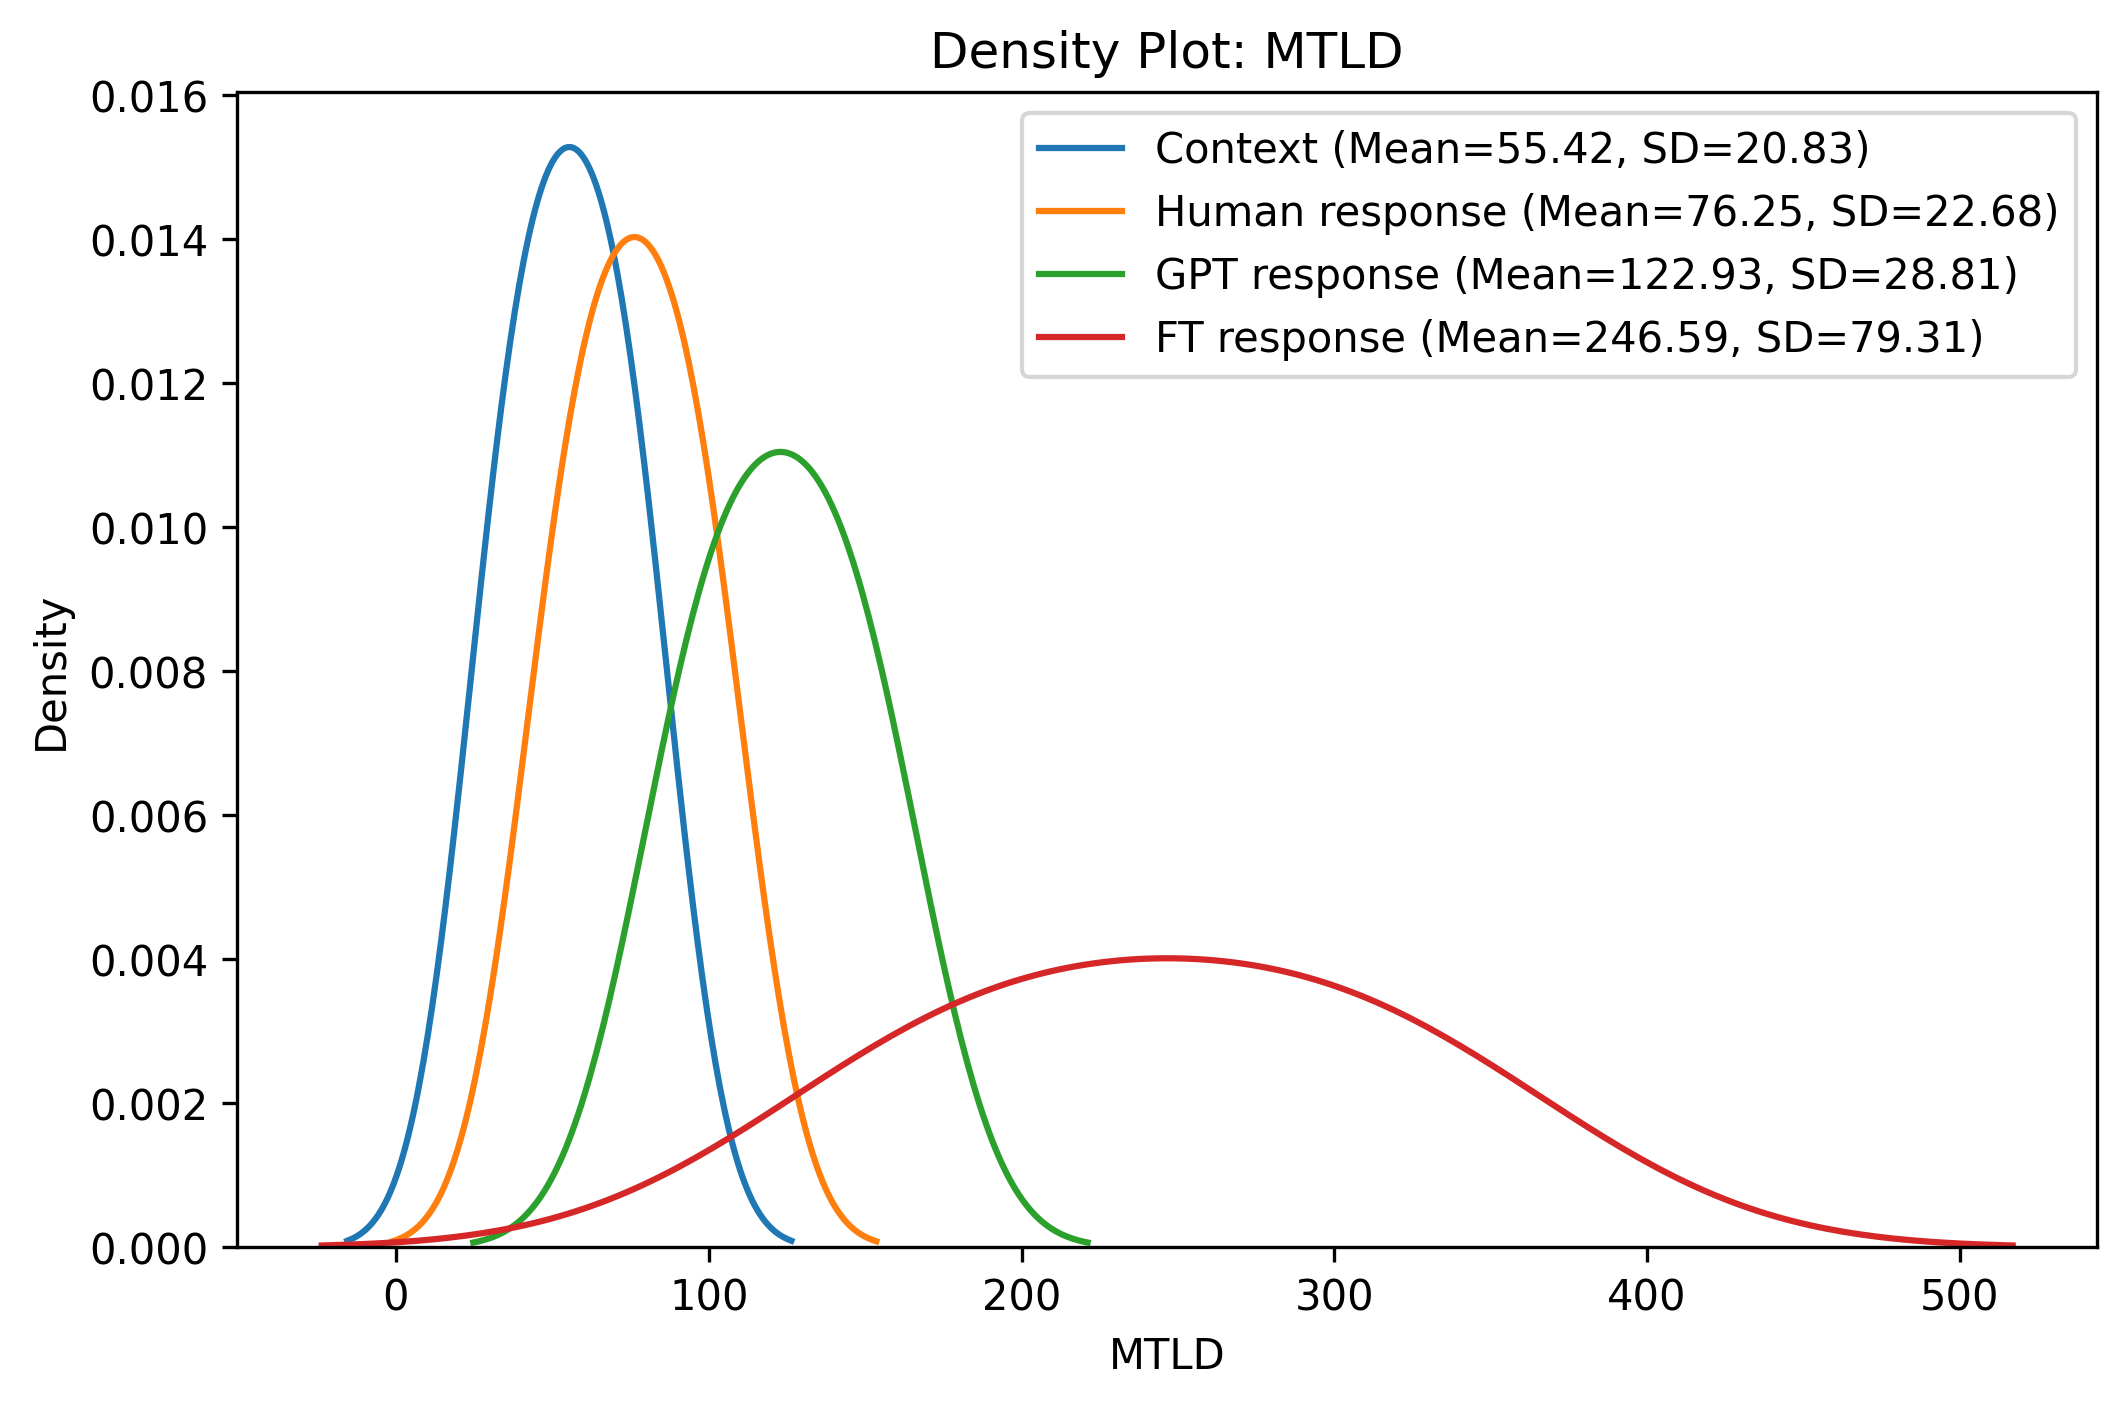
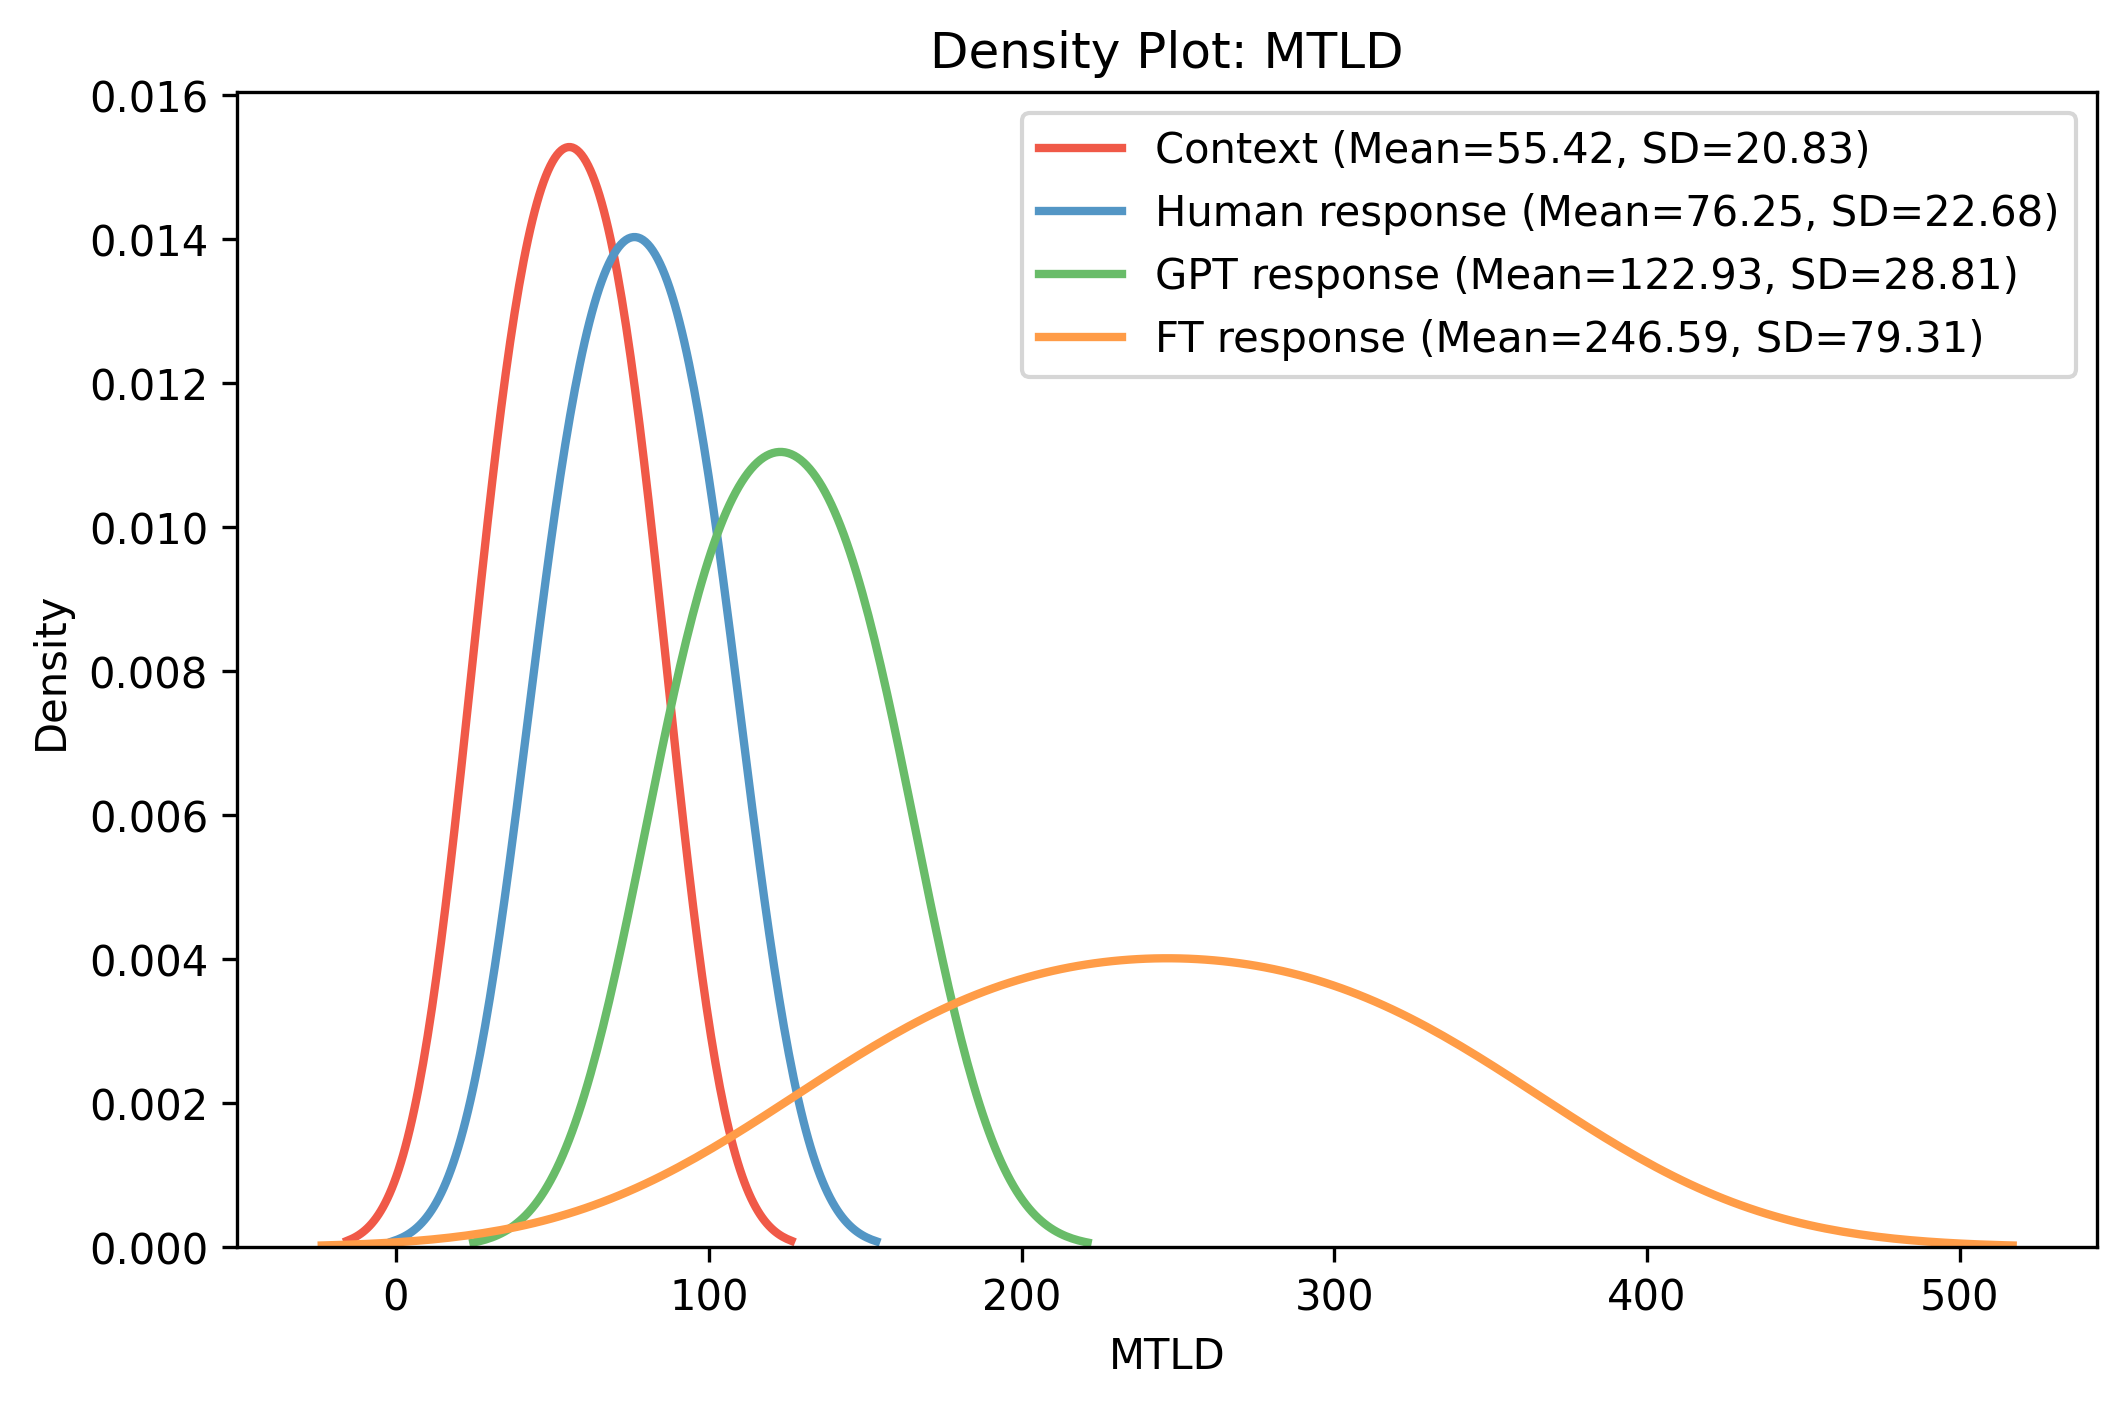
Changed color palette and changed smaller things.

diff --git a/src/EmotionStats.py b/src/EmotionStats.py
@@ -1,12 +1,26 @@
 ''' 
--------------------- Emotion Classification - Statistical Analysis -----------------------
-Okay, so for this script we will be doing some statistics on the emotional Classification investigation.
+-------------------- Emotional alignment - Statistical Analysis --------------------
 
-The script will:
-- 
+This script performs the statistical and descriptive analyses for the emotional
+classification outputs (emotion_analysis.csv).
 
+Specifically, the script:
+1. Loads the emotion distributions and emotional similarity scores produced in the
+   emotion classification pipeline.
+2. Extracts the dominant ("top") emotion for each text type (Context, Human,
+   GPT, and fine-tuned responses).
+3. Extracts emotional similarity scores, and performs paired Wilcoxon signed-rank tests to compare emotional alignment
+   between response types (Human vs GPT, Human vs FT, FT vs GPT).
+4. Computes normalized emotion distributions across text types and visualizes
+   them in a bar plot.
+
+Input:
+- emotion_analysis.csv  (output from the emotion classification script)
+
+Output:
+- Printed Wilcoxon test statistics
+- emotion_distribution.png (bar plot of dominant emotion proportions)
 '''
-
 
 ''' ----------------------- SETUP ----------------------'''
 # Load packages
@@ -23,12 +37,12 @@ df = pd.read_csv(EMOTION_PATH)
 emotion_cols = ["Context_emotion", "Human_response_emotion", 
                 "FT_response_emotion", "GPT_response_emotion"]
 
-# convert stringified dicts to real dicts
+# convert the stored string-form dictionaries back intro Python dictionary objects
 for col in emotion_cols:
     df[col] = df[col].apply(lambda x: ast.literal_eval(x) if isinstance(x, str) else x)
 
-''' ----------- Definin functions ----------- '''
-# Defining function to find the top emotion
+''' ----------- Defining functions ----------- '''
+# Defining function to identify the dominant (highest probability) emotion in each dictionary
 def top_emotion(score_dict):
     if not isinstance(score_dict, dict) or len(score_dict) == 0:
         return None
@@ -38,45 +52,20 @@ def top_emotion(score_dict):
 for prefix in ["Context", "Human_response", "FT_response", "GPT_response"]:
     df[f"{prefix}_top"] = df[f"{prefix}_emotion"].apply(top_emotion)
 
-# Here, each line compares two columns row-by-row and creates a new boolean column where:
-# TRUE = if, for that row, the respondents top emotion matches the clients top emotion
-# False otherwise
-df["Human_match"] = df["Context_top"] == df["Human_response_top"]
-df["FT_match"] = df["Context_top"] == df["FT_response_top"]
-df["GPT_match"] = df["Context_top"] == df["GPT_response_top"]
 
-# find the mean for the columns and calculates the proportion of rows where the emotion match is TRUE, i.e. =1
-alignment_rates = df[["Human_match", "FT_match", "GPT_match"]].mean()
-print(alignment_rates)
-
-# columns needed for this part of the analysis
-sim_cols = ["Human_response_emotion_similarity",
-            "FT_response_emotion_similarity",
-            "GPT_response_emotion_similarity"]
-
-# creating data frame for this part of it with summary stats
-sim_summary = pd.DataFrame({
-    "Mean": df[sim_cols].mean(),
-    "Median": df[sim_cols].median(),
-    "Min": df[sim_cols].min(),
-    "Max": df[sim_cols].max(),
-    "StdDev": df[sim_cols].std()
-}).round(3)
-
-print(sim_summary)
-
+''' ---------------------- Statistics ------------------------'''
 # extract the emotional similarity columns
 # Higher value = the response is emotionally closer to the client’s emotion vector
 human = df["Human_response_emotion_similarity"]
 ft = df["FT_response_emotion_similarity"]
 gpt = df["GPT_response_emotion_similarity"]
 
+# Perform paired Wilcoxon signed-rank tests to compare emotional similarity
+# across response types. Wilcoxon is appropriate because:
+# - Similarity scores are paired (each response linked to a shared context)
+# - Scores are bounded between 0 and 1
+# - The distribution is non-normal
 
-# Making paired Wilcoxon signed-rank tests, which:
-# compare two related samples that are non-parametric (i.e. doesn’t assume normal distribution)
-# works row-by-row
-# Choosing Wilcoxon, as the emotional similarity scores are bounded between 0 and 1 → 
-# not normally distributed, slightly skewed and paired for each message.
 # Human vs GPT
 w_human_gpt = wilcoxon(human, gpt)
 # Human vs FT
@@ -90,19 +79,15 @@ print("Human vs FT:", w_human_ft)
 print("FT vs GPT:", w_ft_gpt)
 
 
-''' -------------------- emotion distribution comparison --------------------- '''
-# Counts how many times each emotion appears, turns raw counts into proportions (percentages) and rounds to 3 decimals.
-# + making it ready to plot
-# Emotion labels in fixed order
+''' -------------------- Emotion distribution comparison --------------------- '''
+# Compute normalized emotion distributions across text types (proportions)
 top_columns = ["Context_top", "Human_response_top", "FT_response_top", "GPT_response_top"]
 emotion_labels = ["anger", "disgust", "fear", "joy", "neutral", "sadness", "surprise"]
 
 distributions = {}
 
 for col in top_columns:
-    print(f"\nValue counts for {col}:")
     dist = df[col].value_counts(normalize=True).round(3)
-    print(df[col].value_counts(normalize=True).round(3))
     # reindex ensures missing emotions appear as 0
     distributions[col] = dist.reindex(emotion_labels, fill_value=0)
     
@@ -114,10 +99,10 @@ plot_df = pd.DataFrame(distributions, index=emotion_labels)
 
 # Custom color palette
 colors = {
-    "Context_top": "#4893f0",        # blue
-    "Human_response_top": "#f0c14a", # orange
-    "FT_response_top": "#6dcc5e",    # green
-    "GPT_response_top": "#d92e2e"    # red
+    "Context_top": "#f05948",        # red
+    "Human_response_top": "#5396c5",  # blue
+    "FT_response_top": "#ff9c47",     # orange
+    "GPT_response_top": "#69bc69"    # green
 }
 
 # Plot

diff --git a/src/Lexical_analysis.py b/src/Lexical_analysis.py
@@ -15,7 +15,6 @@ What the script does:
 - word count
 - Sentence count
 - Average sentence length 
-- Type-Token Ratio (TTR)
 - Corrected Type-Token Ratio (CTTR)
 - Measure of Textual Lexical Diversity (MTLD)
 3. Produced both per-row analysis files and aggregated summary statistics. 
@@ -86,17 +85,6 @@ def avg_sentence_length(text):
     # total number of words across sentences
     total_words = sum(len([t for t in sent if t.is_alpha]) for sent in sentences)
     return total_words / len(sentences)
-
-# ---- Type–Token Ratio (TTR) ----
-def ttr_spacy(text):
-    """Compute Type-Token Ratio: unique words / total words (lowercased)."""
-    if not isinstance(text, str) or text.strip() == "":
-        return 0
-    doc = nlp(text.lower()) # lowercase so 'Hello' and 'hello' count as the same type
-    tokens = [t.text for t in doc if t.is_alpha]
-    if len(tokens) == 0:
-        return 0
-    return len(set(tokens)) / len(tokens)
 
 # ---- Corrected TTR (CTTR) ----
 def cttr_spacy(text):
@@ -228,23 +216,6 @@ if __name__ == "__main__":
         col_min = lex[col].min()
         col_max = lex[col].max()
 
-    # ---------- Type-Token Ratio per row and summary ----------
-    ttr_df = pd.DataFrame()
-    ttr_df["ID"] = df["ID"]
-
-    for col in TEXT_COLS:
-        print(f"Computing TTR for: {col}")
-        ttr_df[f"{col}_TTR"] = df[col].progress_apply(ttr_spacy)
-
-    ttr_metrics = [col for col in ttr_df.columns if col.endswith("_TTR")]
-
-    ttr_summary = pd.DataFrame({
-        "Mean": ttr_df[ttr_metrics].mean(),
-        "Min": ttr_df[ttr_metrics].min(),
-        "Max": ttr_df[ttr_metrics].max(),
-        "SD": ttr_df[ttr_metrics].std()
-    }).round(3)
-
     # ---------- Corrected Type-Token Ratio per row and summary ----------
     cttr_df = pd.DataFrame()
     cttr_df["ID"] = df["ID"]
@@ -285,7 +256,7 @@ if __name__ == "__main__":
 
     # --------------- Combine into a single output dataframe ----------------
     lexical_summary = pd.concat(
-        [wordcount_summary, sentence_summary, ttr_summary, cttr_summary, mtld_summary],
+        [wordcount_summary, sentence_summary, cttr_summary, mtld_summary],
         axis=0
     )
 

diff --git a/src/Lexical_plot.py b/src/Lexical_plot.py
@@ -8,7 +8,10 @@ It is focused on the CTTR and MTLD. And for each metric, it plots one curve per 
 - Fine-tuned response
 
 These curves are approximated using the mean ± SD for each group.
+
+Input: lexical_summary.csv
 Output: PNG files saved to OUTPUT_DIR.
+
 '''
 
 ''' ------------------------------ SETUP ------------------------------- '''
@@ -25,6 +28,14 @@ os.makedirs(OUTPUT_DIR, exist_ok=True)
 
 # Load the summary CSV - while excluding the label column
 df = pd.read_csv(SUMMARY_PATH, index_col=0)
+
+# Custom color palette
+colors = {
+    "Context": "#f05948",        # red
+    "Human response": "#5396c5",  # blue
+    "GPT response": "#69bc69",    # green
+    "FT response": "#ff9c47"     # orange
+}
 
 ''' ------------------ Making plot and stats summary functions -------------------'''
 def make_density_plot(metric_name, stats_type):
@@ -46,7 +57,9 @@ def make_density_plot(metric_name, stats_type):
         values = pd.Series([mean - sd, mean, mean + sd])
         sns.kdeplot(
             values,
-            label=f"{label} (Mean={mean:.2f}, SD={sd:.2f})"
+            label=f"{label} (Mean={mean:.2f}, SD={sd:.2f})",
+            color=colors[label],
+            linewidth=2
         )
 
     plt.title(f"Density Plot: {metric_name}")

diff --git a/src/DataCleaning.py b/src/DataCleaning.py
@@ -16,6 +16,12 @@ This script does 2 things:
     - Remove the other responses for each context
     - Save cleaned CSV
 
+Input: Original_Human_responses.csv
+Outputs: 
+    - Human_responses.csv
+    - context_ID.csv
+
+
 """
 
 import pandas as pd
